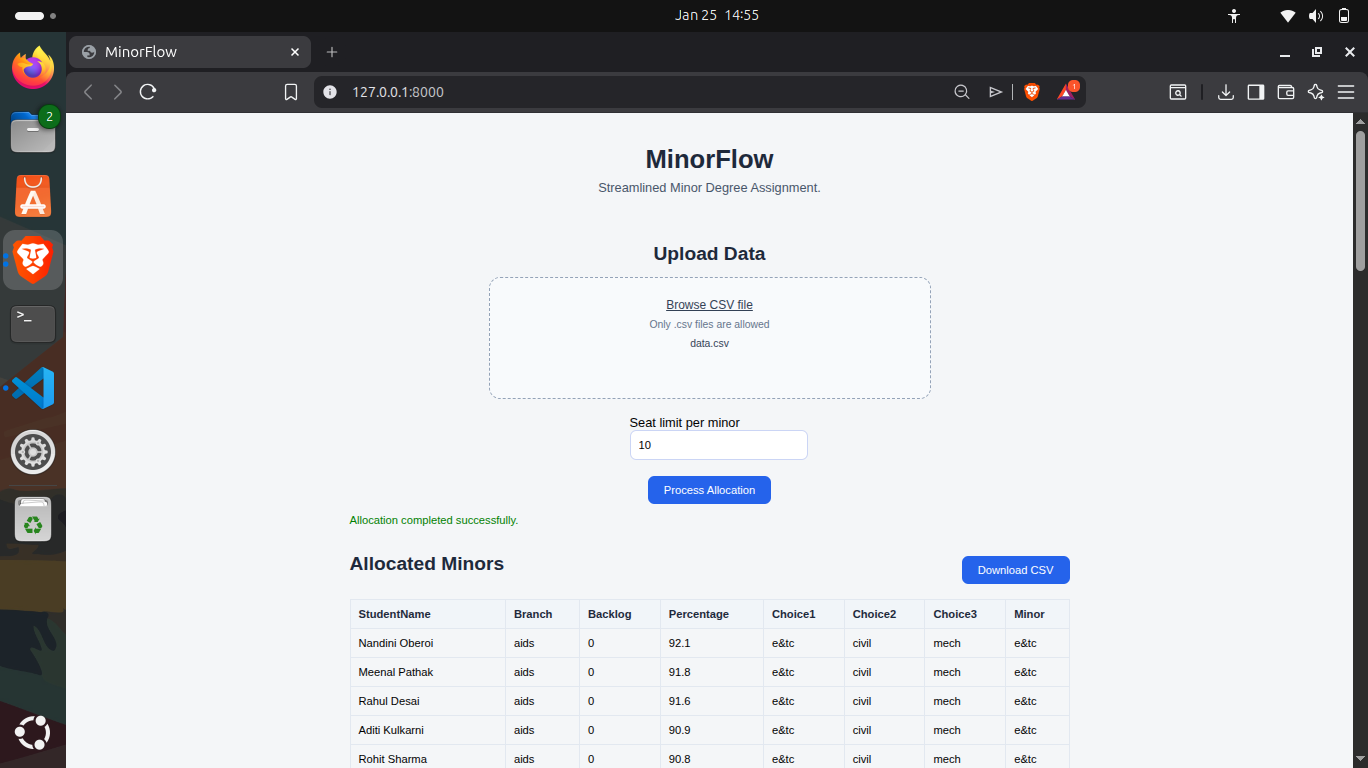
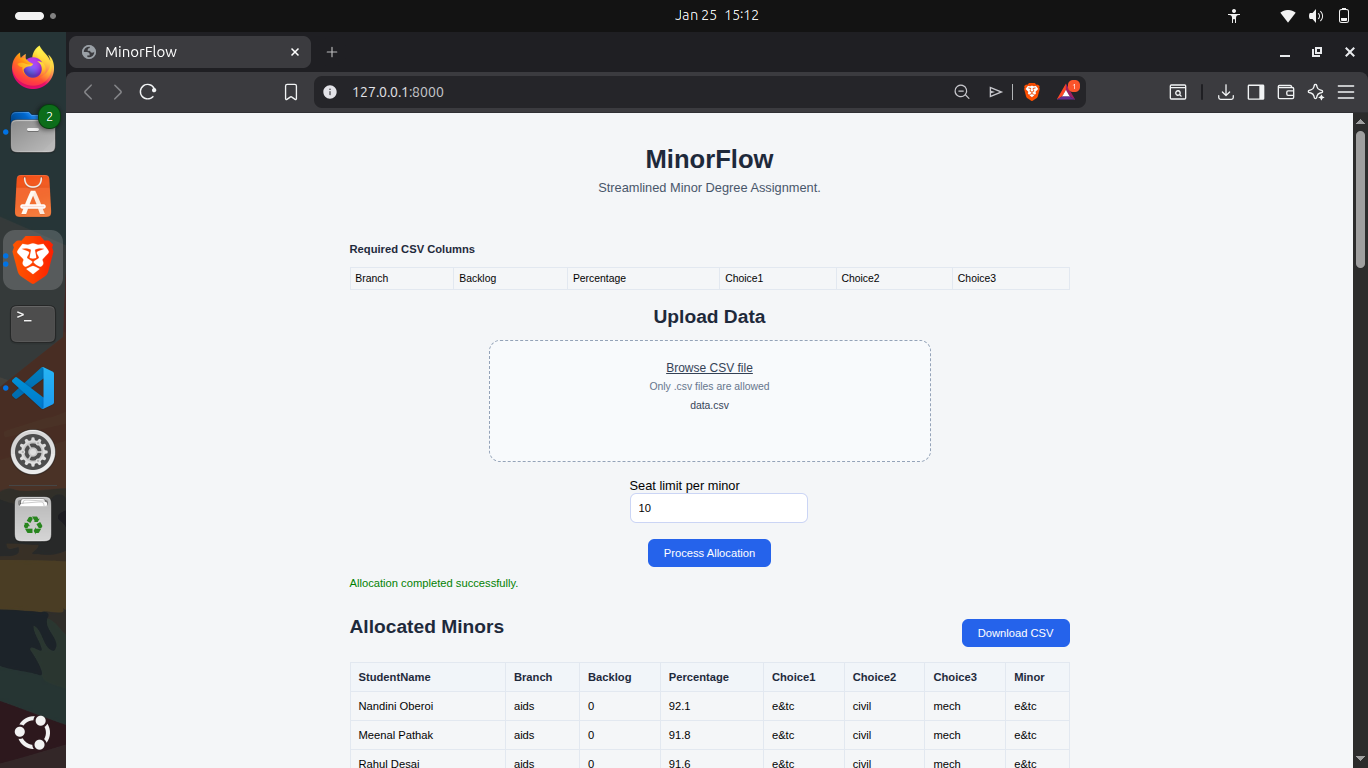
req cols

diff --git a/templates/index.html b/templates/index.html
@@ -190,6 +190,20 @@ table th {
         <p class="subtitle">Streamlined Minor Degree Assignment.</p>
     </div>
 
+        <div style="margin-bottom: 15px;">
+        <p style="font-size:14px; font-weight:600; color:#1e293b;">Required CSV Columns</p>
+        <table style="width:100%; border-collapse: collapse; font-size:13px;">
+            <tr>
+                <td style="padding:6px; border:1px solid #e2e8f0;">Branch</td>
+                <td style="padding:6px; border:1px solid #e2e8f0;">Backlog</td>
+                <td style="padding:6px; border:1px solid #e2e8f0;">Percentage</td>
+                <td style="padding:6px; border:1px solid #e2e8f0;">Choice1</td>
+                <td style="padding:6px; border:1px solid #e2e8f0;">Choice2</td>
+                <td style="padding:6px; border:1px solid #e2e8f0;">Choice3</td>
+            </tr>
+        </table>
+    </div>
+
     <div >
         <h2>Upload Data</h2>
         <form id="upload-form">

diff --git a/main.py b/main.py
@@ -30,7 +30,10 @@ async def process_csv(file: UploadFile = File(...),seats: int = Form(...)):
     }
 
     df = df.sort_values(by=["Backlog", "Percentage"],ascending=[True, False])
-    
+    df["Branch"] = df["Branch"].str.lower().str.strip().replace("entc", "e&tc")
+    df["Choice1"] = df["Choice1"].str.lower().str.strip().replace("entc", "e&tc")
+    df["Choice2"] = df["Choice2"].str.lower().str.strip().replace("entc", "e&tc")
+    df["Choice3"] = df["Choice3"].str.lower().str.strip().replace("entc", "e&tc")
     df["Minor"] = None
     minor_seats = { branch: {m: seats for m in minors} for branch, minors in minor.items()}
     for branch in df["Branch"].str.lower().unique():
